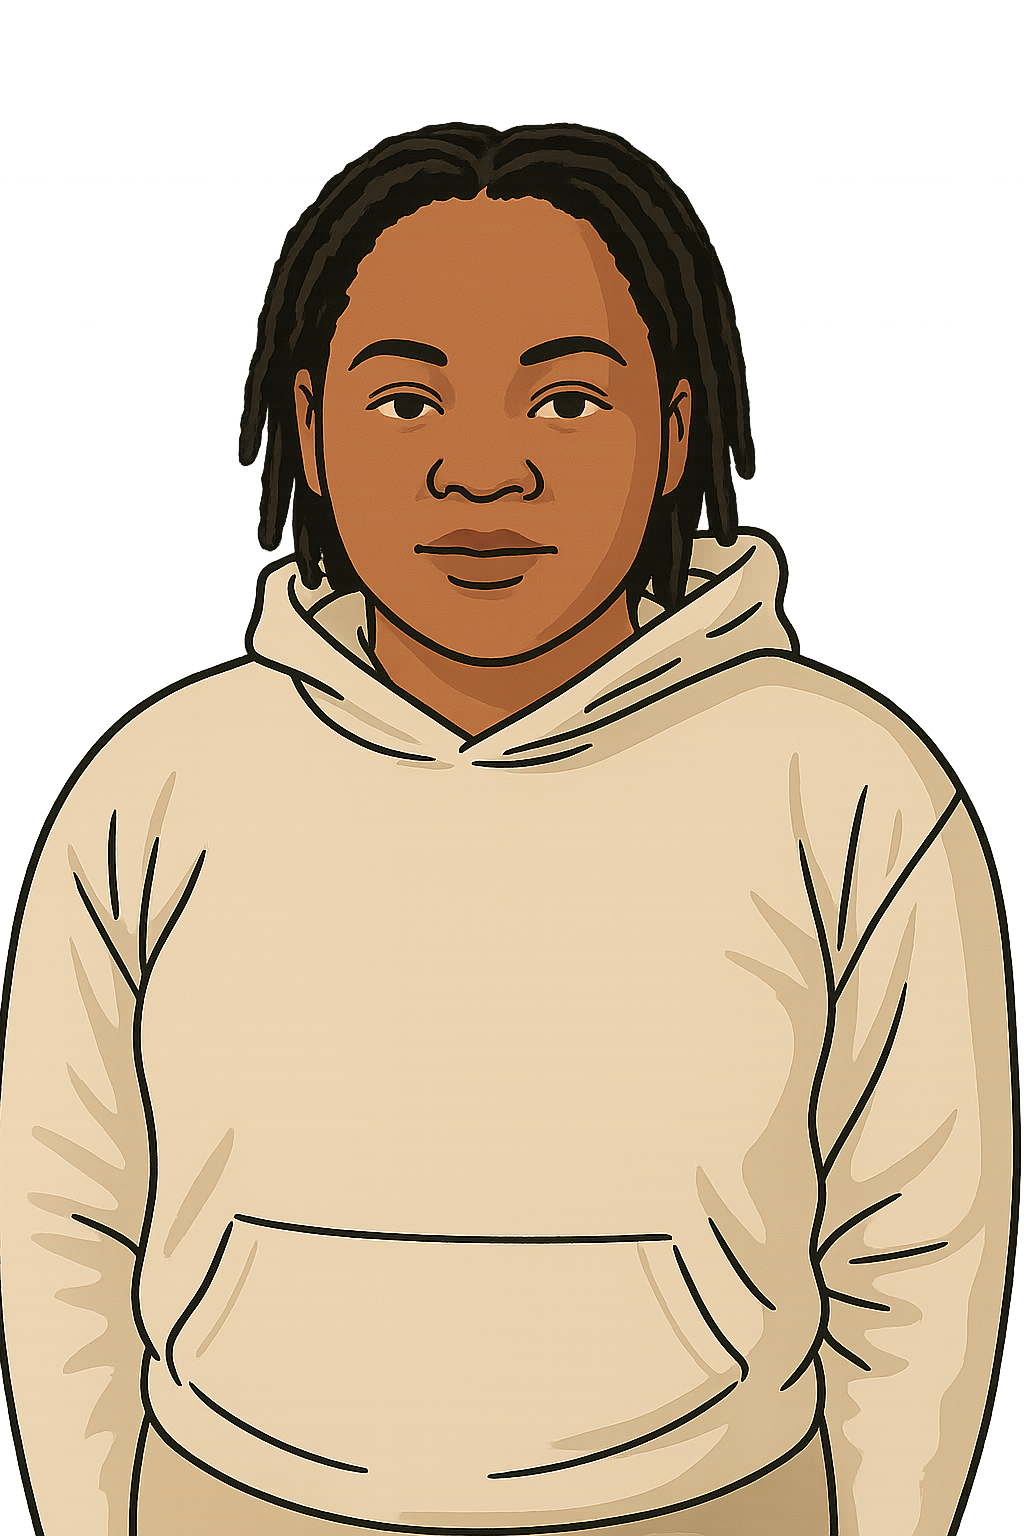
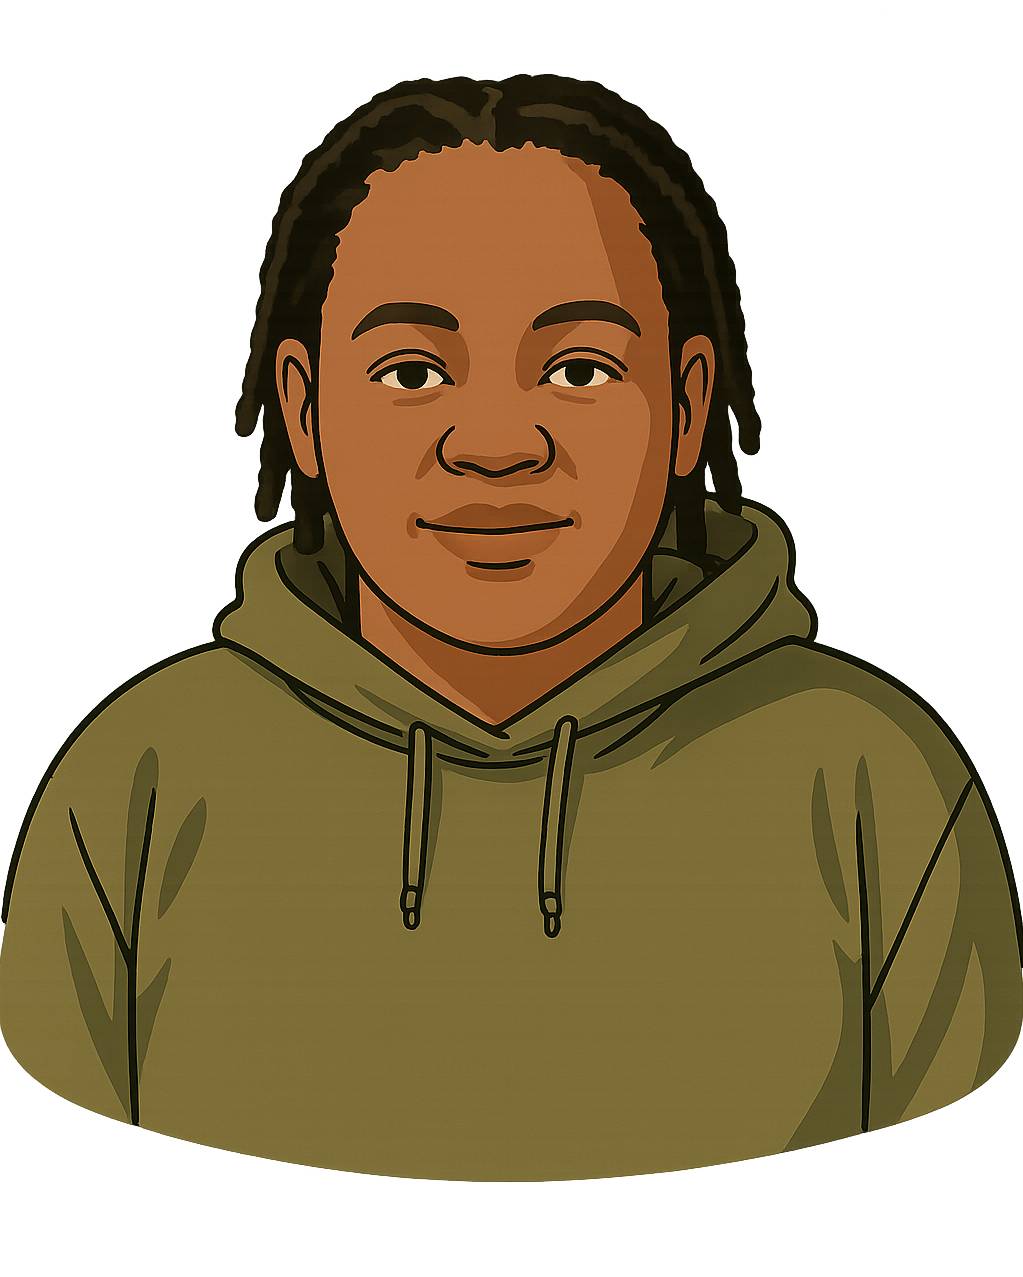
fear: add a footer

diff --git a/src/components/Footer.jsx b/src/components/Footer.jsx
@@ -1,0 +1,37 @@
+const Footer = () => {
+  return (
+    <div className="bg-green-500 text-black uppercase py-8">
+      <h3 className="text-8xl text-center">
+        <span className="font-headings tracking-wider">Let&apos;s</span> connect
+      </h3>
+
+      <div className="bg-black h-0.5 mx-6 mb-3"></div>
+
+      <div className="flex flex-row justify-between px-7">
+        <div className="flex flex-col w-1/2 gap-2">
+          <h5 className="text-3xl font-semibold">let&apos; talk!</h5>
+          <p className="text-2xl">
+            Whether it&apos;s about a cool idea or a potential collaboration.
+            I&apos;d love to hear from you.
+          </p>
+        </div>
+        <div className="flex flex-col gap-2 ">
+          <h5 className="text-3xl font-semibold">find me on</h5>
+          <ul className="text-xl">
+            <li className="text-end">
+              <a href="">email</a>
+            </li>
+            <li className="text-end">
+              <a href="">github</a>
+            </li>
+            <li className="text-end">
+              <a href="">linkedin</a>
+            </li>
+          </ul>
+        </div>
+      </div>
+    </div>
+  );
+};
+
+export default Footer;

diff --git a/src/pages/home/sections/AboutMe.jsx b/src/pages/home/sections/AboutMe.jsx
@@ -1,10 +1,10 @@
-import AvatarImage from "../../../assets/img.png";
+import AvatarImage from "../../../assets/avatar.png";
 
 const AboutMe = () => {
   return (
     <div className="w-full h-screen px-6 pt-8">
       <div className="flex flex-row justify-between items-start">
-        <div className="flex flex-2 flex-col gap-6">
+        <div className="flex flex-2 flex-col gap-8">
           <h3 className="font-headings uppercase text-green-500 text-6xl">
             About Me
           </h3>

diff --git a/src/layout/HomeLayout.jsx b/src/layout/HomeLayout.jsx
@@ -1,11 +1,13 @@
 import { Outlet } from "react-router-dom";
 import Navbar from "../components/Navbar";
+import Footer from "../components/Footer";
 
 const HomeLayout = () => {
   return (
     <div className="w-full bg-white">
       <Navbar />
       <Outlet />
+      <Footer />
     </div>
   );
 };
